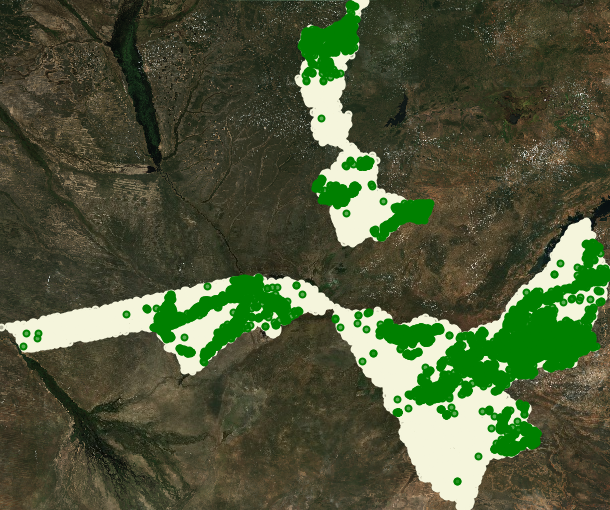
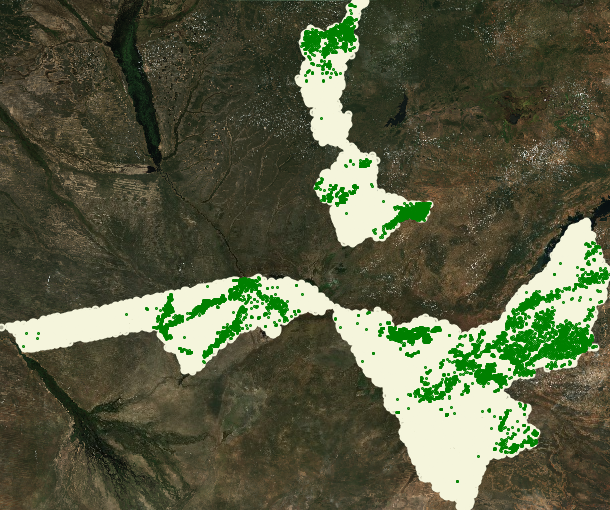
improve readability and visualization

diff --git a/earth_engine_scripts/class_distribution_kaza_bengo_crop_2020_random_20000.js b/earth_engine_scripts/class_distribution_kaza_bengo_crop_2020_random_20000.js
@@ -18,8 +18,10 @@ function maskS2clouds(image) {
 	return image.updateMask(mask).divide(10000);
 	};
 
+// Load dataset
 var kaza_bengo_crop_2020 = ee.FeatureCollection('projects/ee-alexvmt/assets/kaza_bengo_crop_2020_random_20000');
 
+// Load regions of interest
 var binga = ee.FeatureCollection('projects/ee-alexvmt/assets/Binga');
 var hwange = ee.FeatureCollection('projects/ee-alexvmt/assets/Hwange');
 var mufunta = ee.FeatureCollection('projects/ee-alexvmt/assets/Mufunta');
@@ -27,12 +29,14 @@ var mulobesi = ee.FeatureCollection('projects/ee-alexvmt/assets/Mulobesi');
 var sichifulo = ee.FeatureCollection('projects/ee-alexvmt/assets/Sichifulo');
 var zambezi = ee.FeatureCollection('projects/ee-alexvmt/assets/Zambezi');
 
+// Union regions of interest
 var roi = binga.geometry().union(hwange.geometry());
 var roi = roi.union(mufunta.geometry());
 var roi = roi.union(mulobesi.geometry());
 var roi = roi.union(sichifulo.geometry());
 var roi = roi.union(zambezi.geometry());
 
+// Split crop and non-crop points
 var crop = kaza_bengo_crop_2020.filter('crop == 1');
 var non_crop = kaza_bengo_crop_2020.filter('crop == 0');
 
@@ -48,7 +52,6 @@ var s2_image = ee.ImageCollection('COPERNICUS/S2_SR')
 	.mean();
 
 // Get roi bounding box
-//var bounding_box = roi.geometry().bounds();
 var bounding_box = roi.bounds();
 
 // Return list of coordinates
@@ -79,6 +82,5 @@ var vis_params = {
 
 Map.centerObject(roi);
 Map.addLayer(s2_image.clip(box_buffered), vis_params, 'RGB');
-Map.addLayer(non_crop, {'color': 'beige'}, 'Non-crop');
-Map.addLayer(crop, {'color': 'green'}, 'Crop');
-  
+Map.addLayer(non_crop.draw({color: 'beige', pointRadius: 3, strokeWidth: 2}), {}, 'Non-crop');
+Map.addLayer(crop.draw({color: 'green', pointRadius: 1, strokeWidth: 1}), {}, 'Crop');

diff --git a/README.md b/README.md
@@ -97,43 +97,43 @@ Instance segmentation, considering the shape of objects, or leveraging the fact 
 
 ## KAZA landcover dataset
 
-[This](https://github.com/alexvmt/farm_plot_detection/blob/main/sample_points_from_kaza_landcover_2020.ipynb) notebook is used to sample crop and non-crop points from the KAZA landcover datset.
+[This](https://github.com/alexvmt/farm_plot_detection/blob/main/sample_points_from_kaza_landcover_2020.ipynb) notebook is used to sample crop and non-crop points from the KAZA landcover dataset.
 
 ### Random forest
 
 A random forest classifier is applied to each one of the 6 Bengo regions and also to all of them at once to verify the validity of the sampled points and the resulting classification.
 Four different balanced datasets are evaluated. A Sentinel-2 cloud-masked mean composite from April 2020 is used as the input image.
 
-| Sampling mode | Sample size | Region    | Area (km²) | Area (%) | Train accuracy | Test accuracy |
-|---------------|-------------|-----------|-------------|----------|----------------|---------------|
-| Random        | 2000        | Binga     | 14794       | 0.187051 | 0.96           | 0.82          |
-| Random        | 2000        | Hwange    | 30607.3     | 0.386989 | 0.95           | 0.66          |
-| Random        | 2000        | Mufunta   | 6938.41     | 0.087727 | 0.96           | 0.73          |
-| Random        | 2000        | Mulobesi  | 3918.62     | 0.049546 | 0.98           | 0.94          |
-| Random        | 2000        | Sichifulo | 3893.37     | 0.049227 | 0.94           | 0.78          |
-| Random        | 2000        | Zambezi   | 18939.1     | 0.23946  | 0.95           | 0.65          |
-| Uniform       | 2000        | Binga     | 14794       | 0.187051 | 0.93           | 0.75          |
-| Uniform       | 2000        | Hwange    | 30607.3     | 0.386989 | 0.96           | 0.75          |
-| Uniform       | 2000        | Mufunta   | 6938.41     | 0.087727 | 0.94           | 0.75          |
-| Uniform       | 2000        | Mulobesi  | 3918.62     | 0.049546 | 0.92           | 0.61          |
-| Uniform       | 2000        | Sichifulo | 3893.37     | 0.049227 | 0.97           | 0.88          |
-| Uniform       | 2000        | Zambezi   | 18939.1     | 0.23946  | 0.96           | 0.71          |
-| Random        | 20000       | Binga     | 14794       | 0.187051 | 0.95           | 0.78          |
-| Random        | 20000       | Hwange    | 30607.3     | 0.386989 | 0.95           | 0.78          |
-| Random        | 20000       | Mufunta   | 6938.41     | 0.087727 | 0.96           | 0.81          |
-| Random        | 20000       | Mulobesi  | 3918.62     | 0.049546 | 0.97           | 0.82          |
-| Random        | 20000       | Sichifulo | 3893.37     | 0.049227 | 0.96           | 0.85          |
-| Random        | 20000       | Zambezi   | 18939.1     | 0.23946  | 0.94           | 0.72          |
-| Uniform       | 20000       | Binga     | 14794       | 0.187051 | 0.96           | 0.74          |
-| Uniform       | 20000       | Hwange    | 30607.3     | 0.386989 | 0.96           | 0.8           |
-| Uniform       | 20000       | Mufunta   | 6938.41     | 0.087727 | 0.96           | 0.74          |
-| Uniform       | 20000       | Mulobesi  | 3918.62     | 0.049546 | 0.96           | 0.77          |
-| Uniform       | 20000       | Sichifulo | 3893.37     | 0.049227 | 0.96           | 0.8           |
-| Uniform       | 20000       | Zambezi   | 18939.1     | 0.23946  | 0.95           | 0.71          |
-| Random        | 2000        | All       | 79090.8     | 1        | 0.96           | 0.68          |
-| Uniform       | 2000        | All       | 79090.8     | 1        | 0.95           | 0.7           |
-| Random        | 20000       | All       | 79090.8     | 1        | 0.95           | 0.74          |
-| Uniform       | 20000       | All       | 79090.8     | 1        | 0.96           | 0.74          |
+| Sampling mode | Sample size | Region    | Train accuracy | Test accuracy |
+|---------------|-------------|-----------|----------------|---------------|
+| Random        | 2000        | Binga     | 0.96           | 0.82          |
+| Random        | 2000        | Hwange    | 0.95           | 0.66          |
+| Random        | 2000        | Mufunta   | 0.96           | 0.73          |
+| Random        | 2000        | Mulobesi  | 0.98           | 0.94          |
+| Random        | 2000        | Sichifulo | 0.94           | 0.78          |
+| Random        | 2000        | Zambezi   | 0.95           | 0.65          |
+| Uniform       | 2000        | Binga     | 0.93           | 0.75          |
+| Uniform       | 2000        | Hwange    | 0.96           | 0.75          |
+| Uniform       | 2000        | Mufunta   | 0.94           | 0.75          |
+| Uniform       | 2000        | Mulobesi  | 0.92           | 0.61          |
+| Uniform       | 2000        | Sichifulo | 0.97           | 0.88          |
+| Uniform       | 2000        | Zambezi   | 0.96           | 0.71          |
+| Random        | 20000       | Binga     | 0.95           | 0.78          |
+| Random        | 20000       | Hwange    | 0.95           | 0.78          |
+| Random        | 20000       | Mufunta   | 0.96           | 0.81          |
+| Random        | 20000       | Mulobesi  | 0.97           | 0.82          |
+| Random        | 20000       | Sichifulo | 0.96           | 0.85          |
+| Random        | 20000       | Zambezi   | 0.94           | 0.72          |
+| Uniform       | 20000       | Binga     | 0.96           | 0.74          |
+| Uniform       | 20000       | Hwange    | 0.96           | 0.8           |
+| Uniform       | 20000       | Mufunta   | 0.96           | 0.74          |
+| Uniform       | 20000       | Mulobesi  | 0.96           | 0.77          |
+| Uniform       | 20000       | Sichifulo | 0.96           | 0.8           |
+| Uniform       | 20000       | Zambezi   | 0.95           | 0.71          |
+| Random        | 2000        | All       | 0.96           | 0.68          |
+| Uniform       | 2000        | All       | 0.95           | 0.7           |
+| Random        | 20000       | All       | 0.95           | 0.74          |
+| Uniform       | 20000       | All       | 0.96           | 0.74          |
 
 Finally, a crop map is created for the 6 Bengo regions, using the dataset containing 20000 randomly sampled points.
 The class distribution in the used dataset is also shown as a reference.
@@ -141,7 +141,7 @@ The class distribution in the used dataset is also shown as a reference.
 <table>
 	<tr>
 		<th>Class distribution in used dataset</th>
-		<th>Classification</th>
+		<th>Class distribution in predicted crop map</th>
 	</tr>
 	<tr>
 		<td> <img src="visualizations/class_distribution_kaza_bengo_crop_2020_random_20000.png" style="max-width:100%;height:auto" /> </td>
